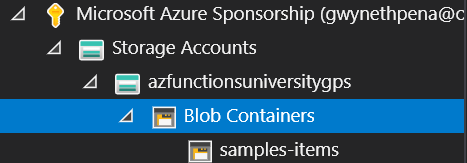
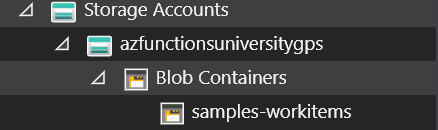
Updates to blob lesson

diff --git a/lessons/blob.md b/lessons/blob.md
@@ -72,19 +72,26 @@ Now it's time to test, but first, make sure you have Azure Storage Explorer inst
 > 📝 __Tip__ - Azure Storage Explorer is a fantastic tool, spend a bit of time poking around before you dive into the next step. It's useful for visualizing the data in your storage accounts.
 
 Once you've installed Storage Explorer, make sure to create a blob container that matches the one you set when creating the function in the visual code wizard, the default is samples-workitems. You can do this by expanding the storage account you selected, right click on blob containers, and select create blob container.
+
 ![Storage Explorer sample-items](/img/lessons/blob/storage-explorer-sample-items.png)
 
 ## 4. Run the function
 
-Okay now it actually is time to fun the function, go ahead and run it, and then add a file to the path that the function is monitoring. 
+Okay now it actually is time to fun the function, go ahead and run it, and then add a file to the blob container that the function is monitoring. You should see output similar to this. The name and size of the tile you uploaded will appear in your Visual Studio terminal output.
+
+![Storage Explorer sample-items](/img/lessons/blob/samples-workitems-output.png)
+
+> 🔎 __Observation__ - Great! That's how the BlobTrigger works, can you start to see how useful this trigger could be in your work? 
+
 
 ## Blob Input Binding
 
-### Steps
+
 
 ## Blob Output Binding
 
-### Steps
+
+## Homework
 
 ## More info
 
